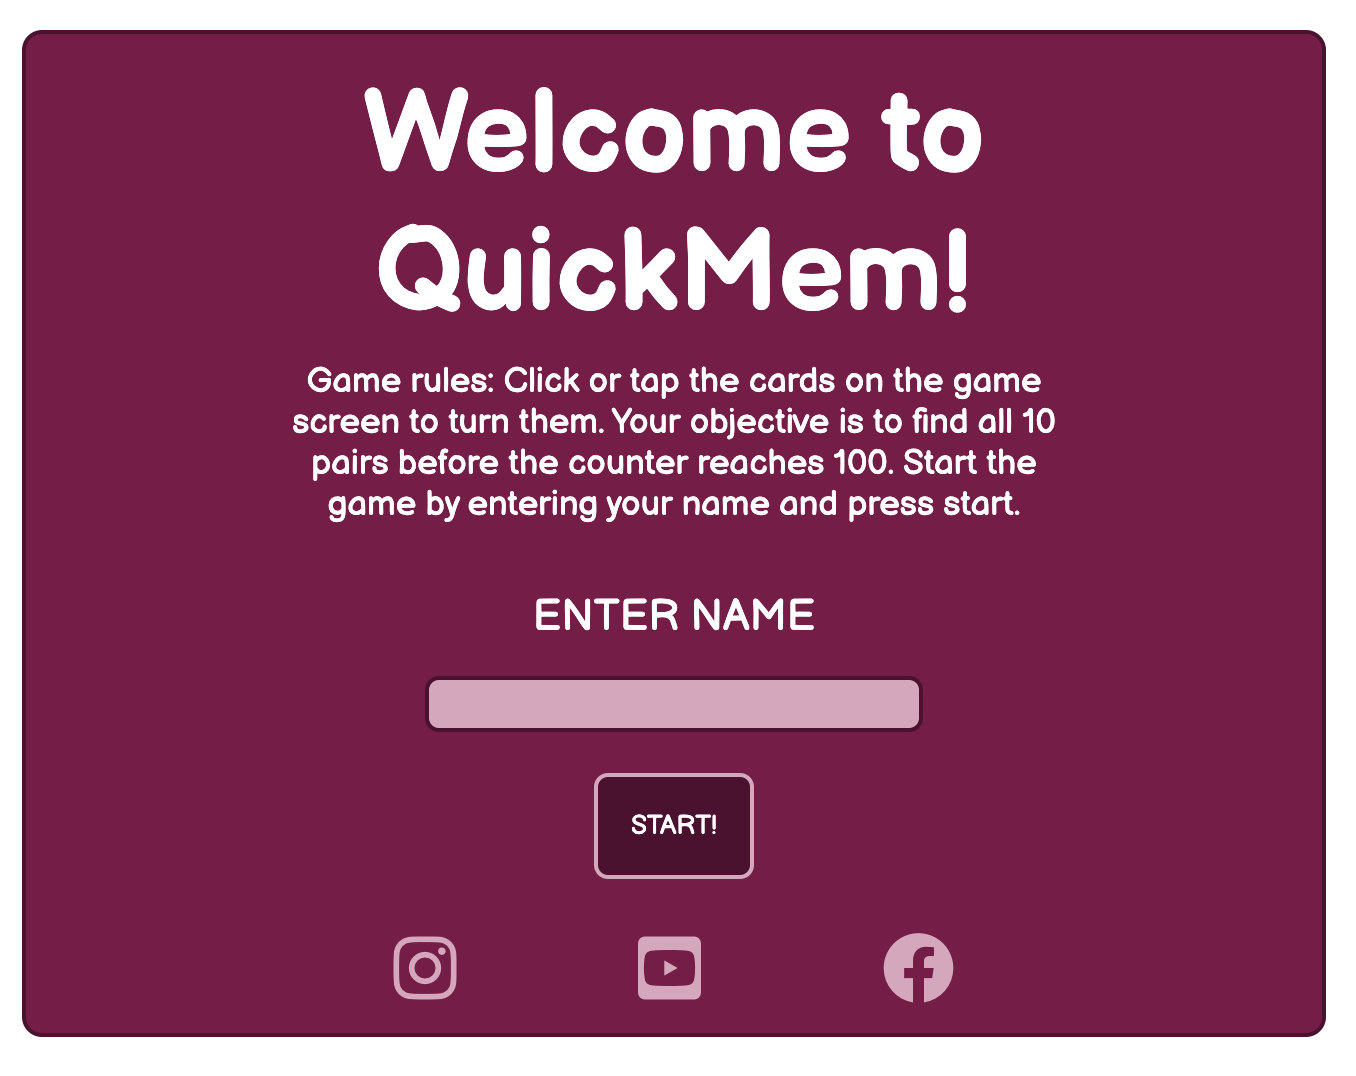
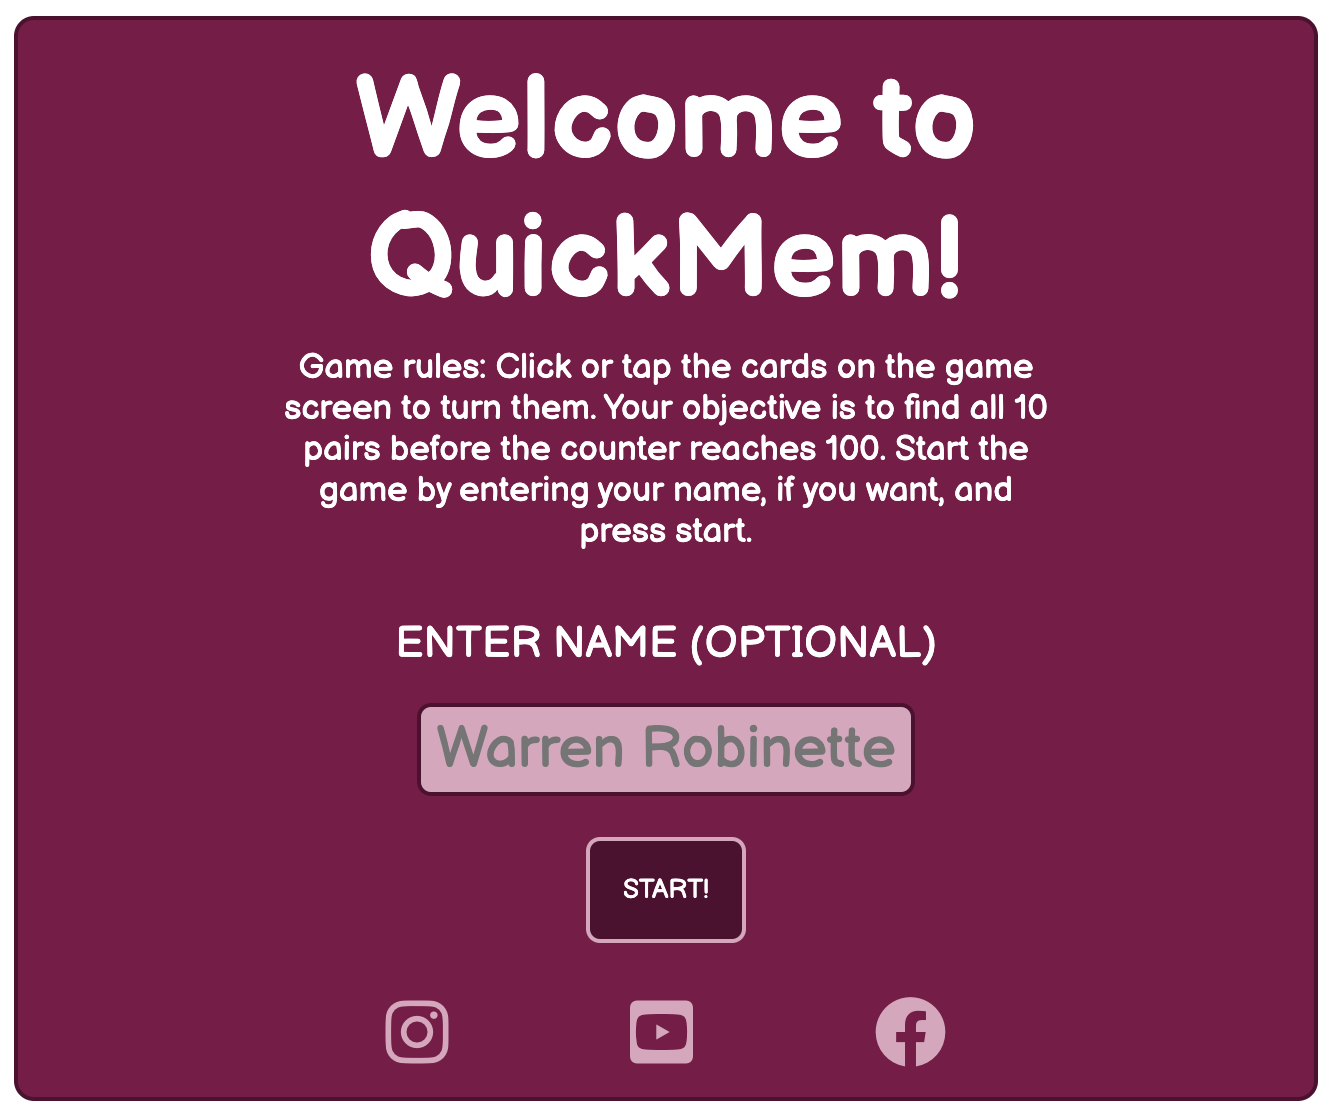
Add changes to start screen. Input box is now optional and has a place holder

Changed region(s): [[0.0, 0.0, 1.0, 1.0], [0.2151, 0.0613, 0.7991, 0.4907]]

diff --git a/index.html b/index.html
@@ -15,9 +15,9 @@
     <div id="start-wrapper" class="game-wrapper">
         <div id="start-screen" class="gscreen">
             <h1>Welcome to QuickMem!</h1>
-            <p>Game rules: Click or tap the cards on the game screen to turn them. Your objective is to find all 10 pairs before the counter reaches 100. Start the game by entering your name and press start.</p>
-            <p id="ent-name-text">Enter Name</p>
-            <input id="name-box" type="text" aria-label="Input your name here">
+            <p>Game rules: Click or tap the cards on the game screen to turn them. Your objective is to find all 10 pairs before the counter reaches 100. Start the game by entering your name, if you want, and press start.</p>
+            <p id="ent-name-text">Enter Name (optional)</p>
+            <input id="name-box" type="text" aria-label="Input your name here" placeholder="Warren Robinette">
             <br>
             <button data-type="submit" id="start-button" class="game-button">START!</button>
         </div>
@@ -44,7 +44,7 @@
             <div id="countdown-bar">0</div>
         </div>
         <div id="main-screen" class="gscreen">
-            <!-- The html for the main game screen is created in script.js -->
+            <!-- The game board is generated here from JavaScript stored in assets/js/script.js -->
         </div>
         <div id="main-footer" class="game-footer">
             <!-- Inspired by Love Running project footer layout and design https://github.com/Code-Institute-Solutions/love-running-2.0-sourcecode -->

diff --git a/assets/css/style.css b/assets/css/style.css
@@ -105,6 +105,7 @@ p {
 
 #name-box {
     font-family: "Balsamiq Sans", sans-serif;
+    font-size: 2vw;
     font-weight: 400;
     color: #4C1130;
     background-color: #D5A6BD;
@@ -225,6 +226,7 @@ p {
 
     #name-box {
         width: 25vw;
+        font-size: 4vw;
     }
 
     /* Game screen styles */

diff --git a/README.md b/README.md
@@ -132,8 +132,8 @@ QuickMem is a linear game and when the player presses start the game board is cr
 
 The Start Screen consists of a header and a paragraph that contains the games main title and the rules. Other elements are:
 
- - Text that tells player to enter name
- - Input field for player name (not required)
+ - Text that tells player to enter name, this is optional
+ - Input field for player name (optional)
  - Start button that takes the player to the main board and shuffles the deck.
 
 ![Start Screen](/assets/images/readme-images/start-screen.png)
@@ -209,7 +209,7 @@ Quick game is a linear game and all players end up at the end screen either the 
   - Did changes to existing array to add name attribute.
 2. Game card divs are not responding to clicks.
 3. Got tired of the console error due to missing favicon. Added the one from Love Maths for now.
-4. Cards won't change color of <i> when clicked
+4. Cards won't change color of i when clicked
 5. cards wont compare (Object to string) - Not working, adding data-id to cards so that these can be compared.
 6. game board doubles number of cards when "play again" is pressed.
   Created function that clears game-board.
@@ -248,12 +248,22 @@ Apart from Google Fonts and FontAwesome no external media are used in the game.
 
 ## Credits 
 
-### For code inspiration, design inputs, help and advice. Many thanks to:
+### For code inspiration, design inputs, help and advice.
 
-Content
+I have consulted numerous websites, individuals and slack channels to get support for the code. No code block is directly copied but some generates from information I gathered from other developers and sites:
 
-### Great sources
+ - [Mdn web docs](https://developer.mozilla.org/en-US/docs/Web/JavaScript/Reference/Global_Objects/Array) for information about Arrays and also identifying bugs.
+ - [Code Institute - Love Running](https://github.com/Code-Institute-Solutions/love-running-2.0-sourcecode) for inspiration to game footer.
+ - [Code Institute - Love Maths](https://github.com/Code-Institute-Solutions/love-maths-2.0-sourcecode) for inspiration to design of user interface.
+ - [DevelopedByEd](https://developedbyed.com/) that taught me in his vides on how to generate a board of cards and display it as a CSS grid.
+ - [W3 Schools](https://www.w3schools.com/jsref/met_element_addeventlistener.asp) for understanding Event Listeners. 
+ - [W3 Schools](https://www.w3schools.com/w3css/w3css_progressbar.asp) for the developing of my progress bar on the main game screen.
 
-Content
+### Acknowledgment
+
+ - [Lauren-Nicole Popich](https://www.linkedin.com/in/lauren-nicole-popich-1ab87539/) My incredible fellow student. Thank you for all discussions, testing, comments, insights and support and leading me out of frustration.
+ - [Martina Terlevic](https://www.linkedin.com/in/martinaterlevic/) My fantastic mentor at Code Institute, thank you for your support, feedback and humor.
+
+ And to all the rest of my fellow student that have tested the actual game and provided me with feedback on playability.
 
 [Back to top](#quickmem)
